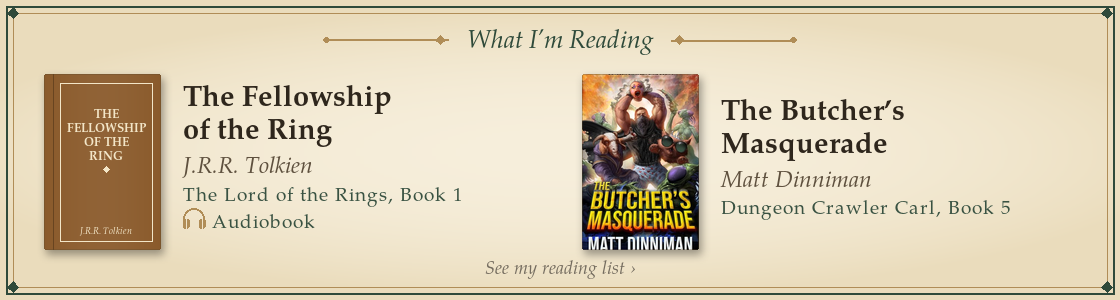
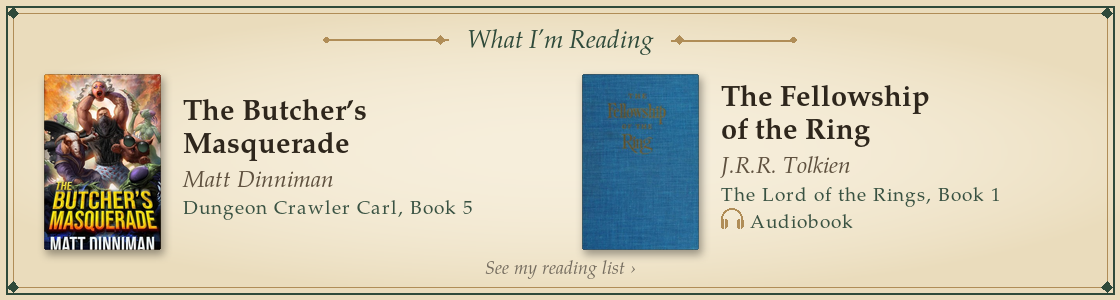
Now reading: The Butcher’s Masquerade; The Fellowship of the Ring

Changed region(s): [[0.5, 0.24, 0.9062, 0.84], [0.0312, 0.24, 0.4375, 0.84]]

diff --git a/index.html b/index.html
@@ -72,19 +72,19 @@ footer { margin-top: 48px; text-align: center; font-size: 13px; color: var(--mut
   </header>
   <section class="now" aria-label="Reading now">
       <article class="book">
-        <div class="cover plain" aria-hidden="true"><span>The Fellowship of the Ring</span></div>
-        <div class="info">
-          <h3><a href="https://www.goodreads.com/search?q=The+Fellowship+of+the+Ring+J.R.R.+Tolkien" rel="noopener">The Fellowship of the Ring</a></h3>
-          <p class="author">J.R.R. Tolkien</p>
-          <p class="series">The Lord of the Rings, Book 1</p><p class="how">Listening on audiobook</p>
-        </div>
-      </article>
-      <article class="book">
         <img class="cover" src="covers/the-butcher-s-masquerade-f73c5776.jpg" alt="Cover of The Butcher’s Masquerade" loading="lazy">
         <div class="info">
           <h3><a href="https://www.goodreads.com/search?q=The+Butcher%27s+Masquerade+Matt+Dinniman" rel="noopener">The Butcher’s Masquerade</a></h3>
           <p class="author">Matt Dinniman</p>
           <p class="series">Dungeon Crawler Carl, Book 5</p>
+        </div>
+      </article>
+      <article class="book">
+        <img class="cover" src="covers/the-fellowship-of-the-ring-00020413.jpg" alt="Cover of The Fellowship of the Ring" loading="lazy">
+        <div class="info">
+          <h3><a href="https://www.goodreads.com/search?q=The+Fellowship+of+the+Ring+J.R.R.+Tolkien" rel="noopener">The Fellowship of the Ring</a></h3>
+          <p class="author">J.R.R. Tolkien</p>
+          <p class="series">The Lord of the Rings, Book 1</p><p class="how">Listening on audiobook</p>
         </div>
       </article>
   </section>
